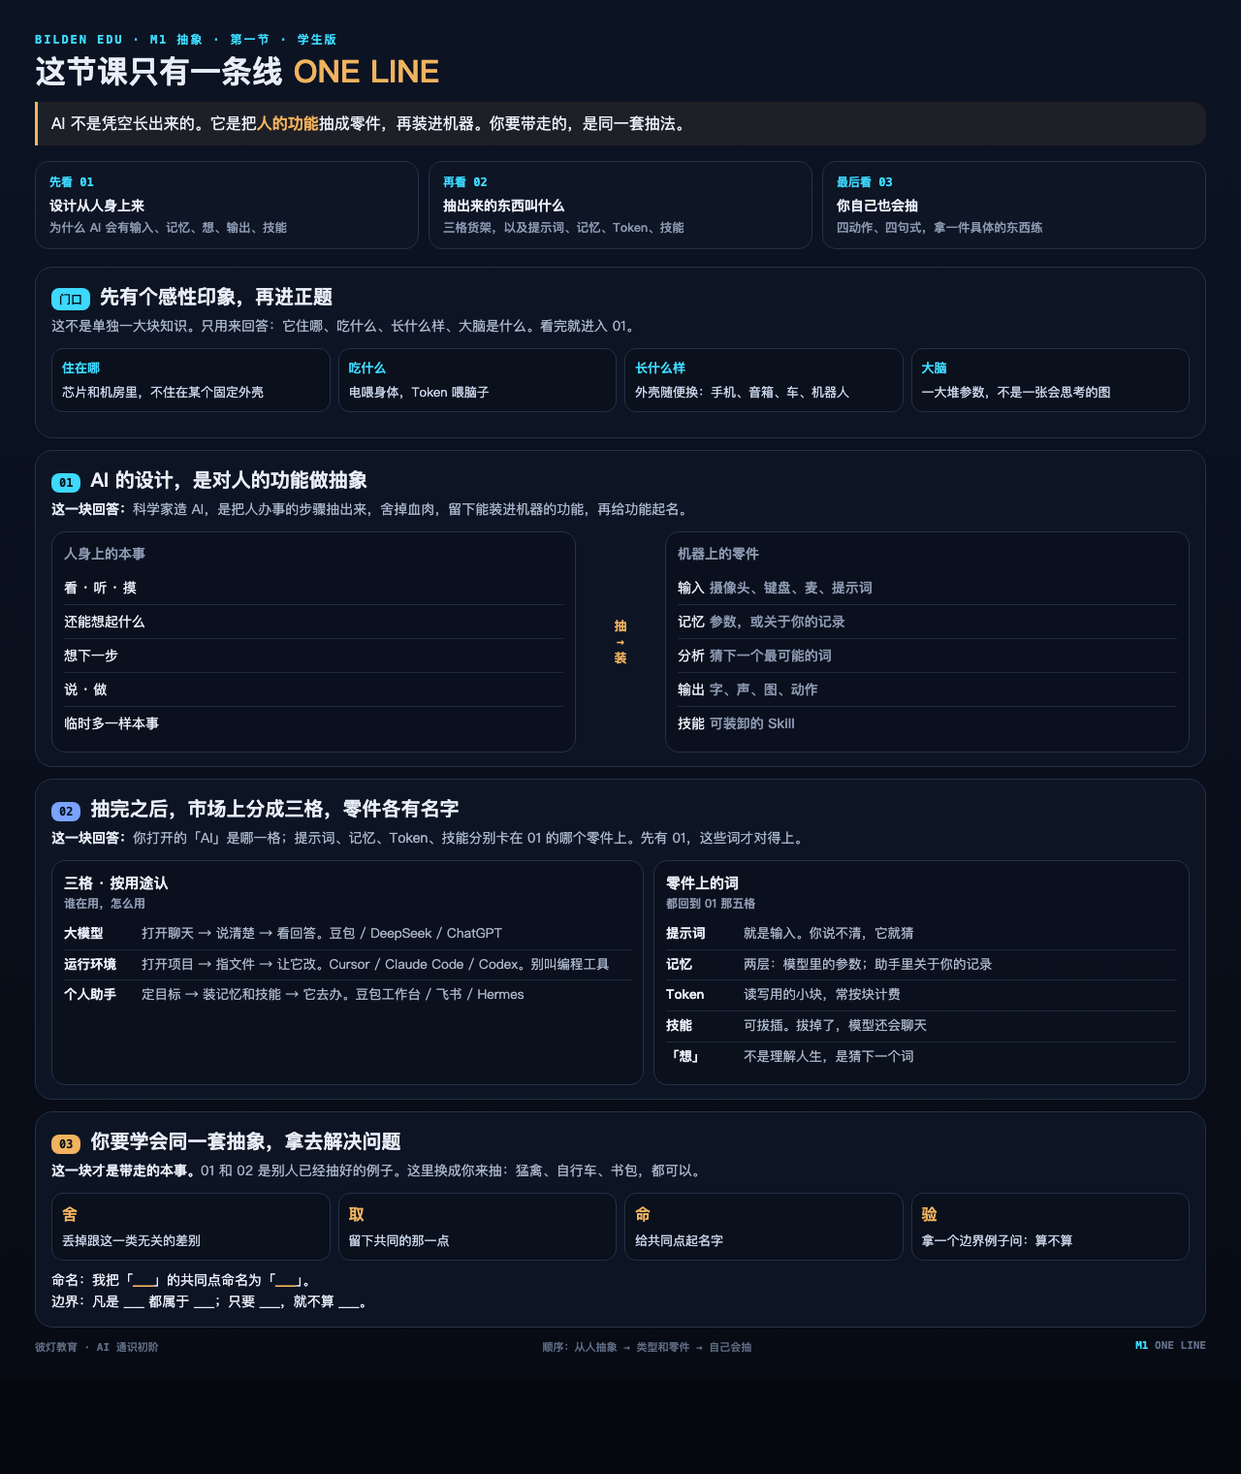
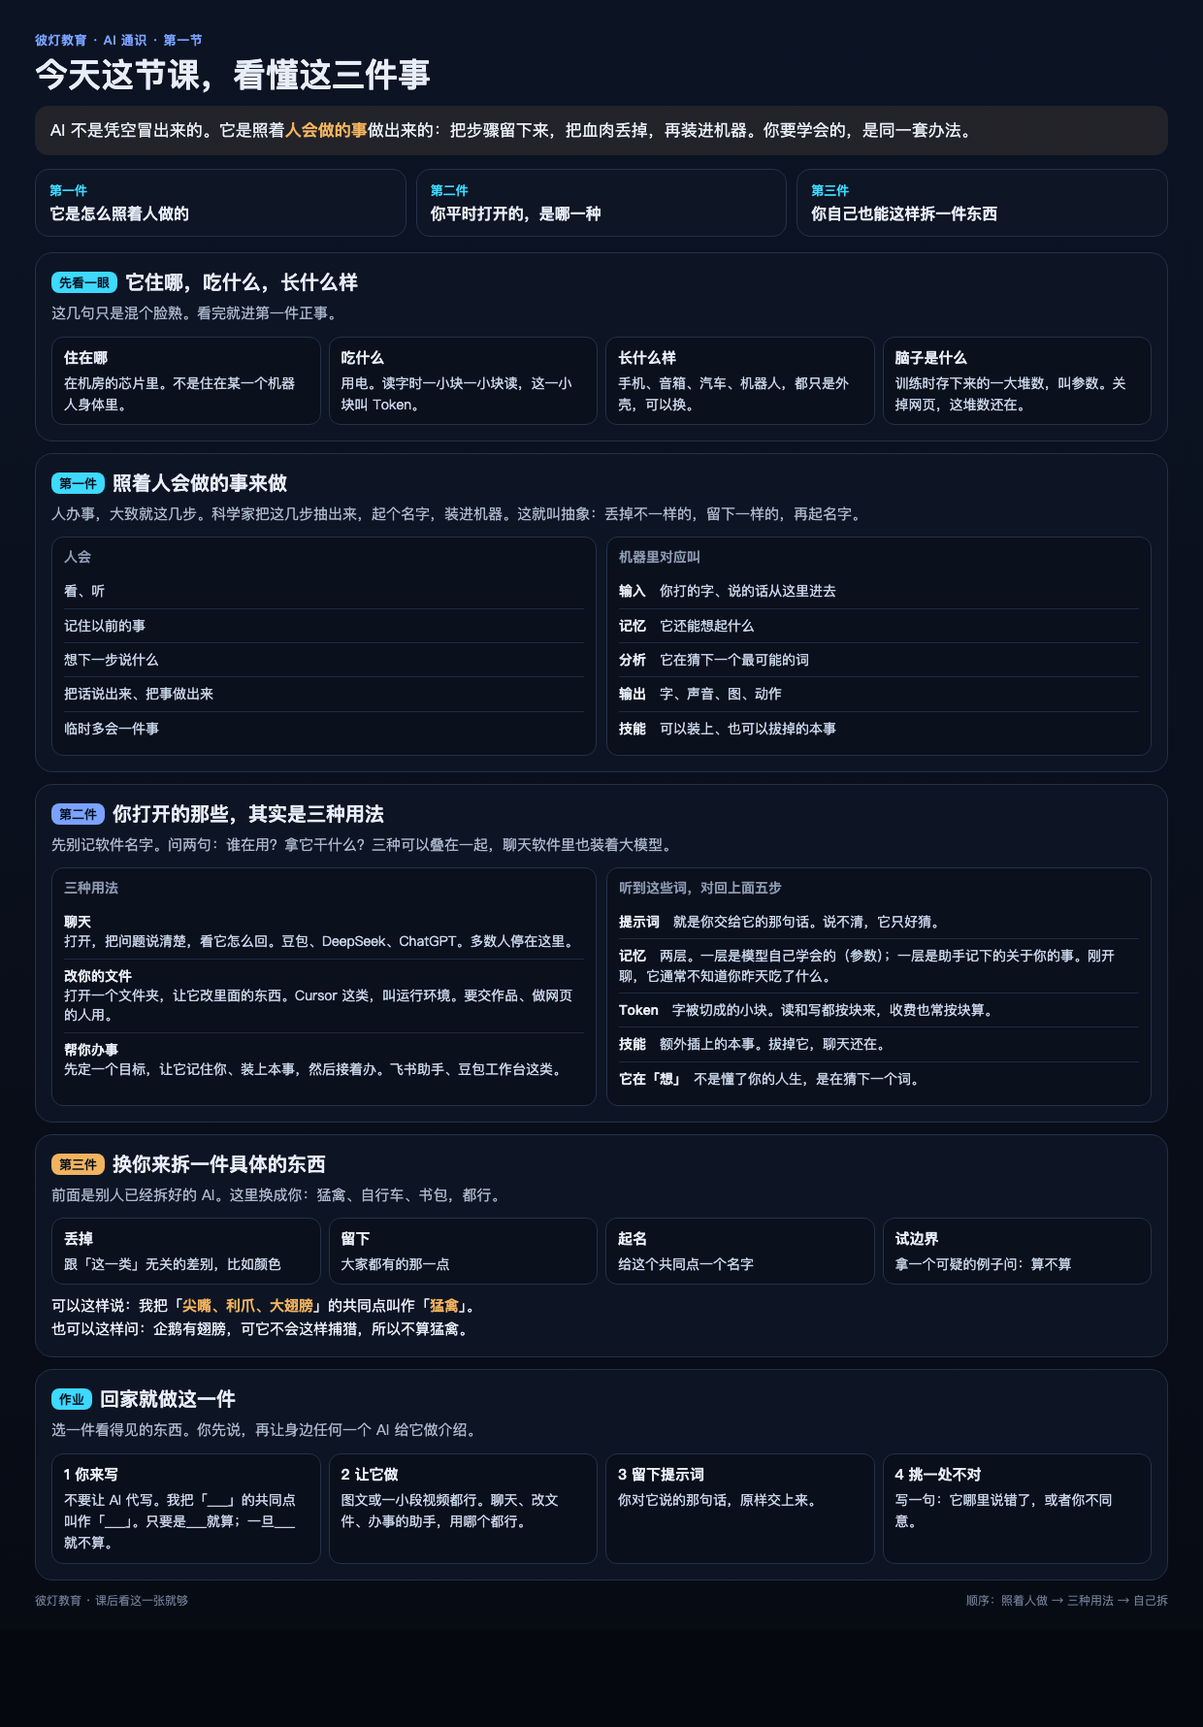
课后卡片改成口语，并加一份作业：自己用抽象句子描述一件东西，再用任意 AI 做介绍。

Changed region(s): [[0.0306, 0.0, 0.95, 0.9276], [0.7355, 0.8039, 0.9806, 0.9276]]

diff --git a/literacy/course/17-m1-lookup.html b/literacy/course/17-m1-lookup.html
@@ -2,163 +2,140 @@
 <html lang="zh-CN">
 <head>
 <meta charset="UTF-8">
-<title>M1 一条线 · 课后速查</title>
+<title>今天这节课 · 一张卡片</title>
 <style>
   *{box-sizing:border-box;margin:0;padding:0}
   html,body{background:#05080F;color:#E8EEF8;font-family:"PingFang SC","Hiragino Sans GB","Noto Sans SC",sans-serif}
-  .sheet{
-    width:1280px;margin:0 auto;padding:32px 36px 24px;
-    background:linear-gradient(180deg,#0C1424,#070B14);
-  }
-  .kick{font:800 12px ui-monospace,Menlo,monospace;letter-spacing:.16em;color:#3DD9FF}
-  h1{font-size:32px;margin-top:6px;line-height:1.2}
-  h1 em{font-style:normal;color:#F2B35E;font-weight:700}
-  .thesis{
-    margin-top:12px;font-size:16px;line-height:1.55;color:#E8EEF8;
-    border-left:3px solid #F2B35E;padding:10px 14px;background:rgba(242,179,94,.08);border-radius:0 14px 14px 0;
-  }
-  .thesis b{color:#F2B35E}
-  .path{
-    display:grid;grid-template-columns:repeat(3,1fr);gap:10px;margin:16px 0 18px;
-  }
-  .path div{
-    border:1px solid #243247;border-radius:14px;padding:12px 14px;background:rgba(14,22,38,.9);
-  }
-  .path b{display:block;font:800 12px ui-monospace,Menlo,monospace;color:#3DD9FF;margin-bottom:4px}
-  .path span{font-size:14px;font-weight:800;line-height:1.35}
-  .path small{display:block;margin-top:4px;font-size:12.5px;font-weight:500;color:#8B98B0;line-height:1.4}
-  .block{
-    border:1px solid #243247;border-radius:18px;background:rgba(14,22,38,.92);
-    padding:16px 16px 14px;margin-bottom:12px;
-  }
-  .block h2{font-size:20px;display:flex;align-items:baseline;gap:10px;margin-bottom:6px}
-  .block h2 i{
-    font:800 12px ui-monospace,Menlo,monospace;font-style:normal;color:#04101C;
-    background:#3DD9FF;border-radius:8px;padding:3px 8px;flex:none;
-  }
-  .block.b2 h2 i{background:#7AA2FF}
-  .block.b3 h2 i{background:#F2B35E}
-  .why{font-size:14px;color:#AAB6CA;line-height:1.5;margin-bottom:12px}
-  .why b{color:#E8EEF8}
-  .door{
-    display:grid;grid-template-columns:repeat(4,1fr);gap:8px;margin-bottom:12px;
-  }
-  .door div{border:1px solid #243247;border-radius:12px;padding:10px;background:rgba(0,0,0,.22)}
-  .door b{display:block;font-size:13px;color:#3DD9FF;margin-bottom:4px}
-  .door span{font-size:13px;color:#C8D4E8;line-height:1.4}
-  .map{display:grid;grid-template-columns:1fr auto 1fr;gap:10px;align-items:stretch}
-  .side{border:1px solid #243247;border-radius:14px;padding:12px;background:rgba(0,0,0,.2)}
-  .side h3{font-size:14px;margin-bottom:8px;color:#8B98B0;font-weight:700}
-  .side li{list-style:none;font-size:14px;padding:7px 0;border-bottom:1px solid #1E2A40;color:#E8EEF8}
-  .side li:last-child{border-bottom:0}
-  .side li span{color:#8B98B0;font-weight:500}
-  .mid{display:flex;align-items:center;justify-content:center;font:800 13px ui-monospace,Menlo,monospace;color:#F2B35E;writing-mode:horizontal-tb;text-align:center;min-width:72px}
-  .cols{display:grid;grid-template-columns:1.05fr .95fr;gap:10px}
-  .box{border:1px solid #243247;border-radius:14px;padding:12px;background:rgba(0,0,0,.2)}
-  .box h3{font-size:15px;margin-bottom:8px}
-  .box h3 small{display:block;font-size:12px;color:#8B98B0;font-weight:600;margin-top:2px}
-  .row{display:grid;grid-template-columns:72px 1fr;gap:8px;padding:6px 0;border-bottom:1px solid #1E2A40;font-size:13.5px;line-height:1.4}
-  .row:last-child{border-bottom:0}
-  .row b{color:#E8EEF8}
-  .row span{color:#AAB6CA}
-  .steps{display:grid;grid-template-columns:repeat(4,1fr);gap:8px}
-  .step{border:1px solid #243247;border-radius:12px;padding:10px;background:rgba(0,0,0,.2)}
-  .step b{display:block;color:#F2B35E;font-size:16px;margin-bottom:4px}
-  .step span{font-size:13px;color:#C8D4E8;line-height:1.4}
-  .sent{margin-top:10px;font-size:14px;line-height:1.55;color:#E8EEF8}
-  .sent b{color:#F2B35E}
-  footer{display:flex;justify-content:space-between;margin-top:8px;font:600 11px ui-monospace,Menlo,monospace;color:#5E6B82}
-  footer b{color:#3DD9FF}
+  .sheet{width:1240px;margin:0 auto;padding:32px 36px 22px;background:linear-gradient(180deg,#0C1424,#070B14)}
+  .kick{font-size:13px;font-weight:700;color:#7AA2FF;letter-spacing:.04em}
+  h1{font-size:34px;margin-top:6px;line-height:1.25;font-weight:800}
+  .lead{margin-top:10px;font-size:17px;line-height:1.6;color:#E8EEF8;background:rgba(242,179,94,.1);border-radius:14px;padding:12px 16px}
+  .lead b{color:#F2B35E}
+  .order{display:grid;grid-template-columns:repeat(3,1fr);gap:10px;margin:14px 0 16px}
+  .order div{border:1px solid #243247;border-radius:14px;padding:12px 14px;background:rgba(14,22,38,.9)}
+  .order b{display:block;font-size:13px;color:#3DD9FF;margin-bottom:4px}
+  .order span{font-size:16px;font-weight:800;line-height:1.35}
+  .card{border:1px solid #243247;border-radius:18px;background:rgba(14,22,38,.92);padding:16px;margin-bottom:12px}
+  .card h2{font-size:20px;font-weight:800;margin-bottom:6px}
+  .card h2 span{display:inline-block;font-size:13px;font-weight:800;color:#04101C;background:#3DD9FF;border-radius:8px;padding:2px 8px;margin-right:8px;vertical-align:2px}
+  .card.b2 h2 span{background:#7AA2FF}
+  .card.b3 h2 span{background:#F2B35E}
+  .note{font-size:15px;color:#AAB6CA;line-height:1.55;margin-bottom:12px}
+  .four{display:grid;grid-template-columns:repeat(4,1fr);gap:8px}
+  .four div,.pair .col{border:1px solid #243247;border-radius:12px;padding:10px 12px;background:rgba(0,0,0,.22)}
+  .four b{display:block;font-size:15px;margin-bottom:4px;color:#E8EEF8}
+  .four span,.pair li{font-size:14px;color:#C8D4E8;line-height:1.45}
+  .pair{display:grid;grid-template-columns:1fr 1fr;gap:10px}
+  .pair h3{font-size:14px;color:#8B98B0;font-weight:700;margin-bottom:8px}
+  .pair li{list-style:none;padding:7px 0;border-bottom:1px solid #1E2A40}
+  .pair li:last-child{border-bottom:0}
+  .pair li b{color:#E8EEF8}
+  .say{margin-top:10px;font-size:15px;line-height:1.6}
+  .say b{color:#F2B35E}
+  footer{display:flex;justify-content:space-between;margin-top:4px;font-size:12px;color:#6F7C93}
 </style>
 </head>
 <body>
 <div class="sheet">
-  <div class="kick">BILDEN EDU · M1 抽象 · 第一节 · 学生版</div>
-  <h1>这节课只有一条线 <em>ONE LINE</em></h1>
-  <p class="thesis">AI 不是凭空长出来的。它是把<b>人的功能</b>抽成零件，再装进机器。你要带走的，是同一套抽法。</p>
+  <div class="kick">彼灯教育 · AI 通识 · 第一节</div>
+  <h1>今天这节课，看懂这三件事</h1>
+  <p class="lead">AI 不是凭空冒出来的。它是照着<b>人会做的事</b>做出来的：把步骤留下来，把血肉丢掉，再装进机器。你要学会的，是同一套办法。</p>
 
-  <div class="path">
-    <div><b>先看 01</b><span>设计从人身上来</span><small>为什么 AI 会有输入、记忆、想、输出、技能</small></div>
-    <div><b>再看 02</b><span>抽出来的东西叫什么</span><small>三格货架，以及提示词、记忆、Token、技能</small></div>
-    <div><b>最后看 03</b><span>你自己也会抽</span><small>四动作、四句式，拿一件具体的东西练</small></div>
+  <div class="order">
+    <div><b>第一件</b><span>它是怎么照着人做的</span></div>
+    <div><b>第二件</b><span>你平时打开的，是哪一种</span></div>
+    <div><b>第三件</b><span>你自己也能这样拆一件东西</span></div>
   </div>
 
-  <section class="block">
-    <h2><i>门口</i>先有个感性印象，再进正题</h2>
-    <p class="why">这不是单独一大块知识。只用来回答：它住哪、吃什么、长什么样、大脑是什么。看完就进入 01。</p>
-    <div class="door">
-      <div><b>住在哪</b><span>芯片和机房里，不住在某个固定外壳</span></div>
-      <div><b>吃什么</b><span>电喂身体，Token 喂脑子</span></div>
-      <div><b>长什么样</b><span>外壳随便换：手机、音箱、车、机器人</span></div>
-      <div><b>大脑</b><span>一大堆参数，不是一张会思考的图</span></div>
+  <section class="card">
+    <h2><span>先看一眼</span>它住哪，吃什么，长什么样</h2>
+    <p class="note">这几句只是混个脸熟。看完就进第一件正事。</p>
+    <div class="four">
+      <div><b>住在哪</b><span>在机房的芯片里。不是住在某一个机器人身体里。</span></div>
+      <div><b>吃什么</b><span>用电。读字时一小块一小块读，这一小块叫 Token。</span></div>
+      <div><b>长什么样</b><span>手机、音箱、汽车、机器人，都只是外壳，可以换。</span></div>
+      <div><b>脑子是什么</b><span>训练时存下来的一大堆数，叫参数。关掉网页，这堆数还在。</span></div>
     </div>
   </section>
 
-  <section class="block">
-    <h2><i>01</i>AI 的设计，是对人的功能做抽象</h2>
-    <p class="why"><b>这一块回答：</b>科学家造 AI，是把人办事的步骤抽出来，舍掉血肉，留下能装进机器的功能，再给功能起名。</p>
-    <div class="map">
-      <div class="side">
-        <h3>人身上的本事</h3>
+  <section class="card">
+    <h2><span>第一件</span>照着人会做的事来做</h2>
+    <p class="note">人办事，大致就这几步。科学家把这几步抽出来，起个名字，装进机器。这就叫抽象：丢掉不一样的，留下一样的，再起名字。</p>
+    <div class="pair">
+      <div class="col">
+        <h3>人会</h3>
         <ul>
-          <li>看 · 听 · 摸</li>
-          <li>还能想起什么</li>
-          <li>想下一步</li>
-          <li>说 · 做</li>
-          <li>临时多一样本事</li>
+          <li>看、听</li>
+          <li>记住以前的事</li>
+          <li>想下一步说什么</li>
+          <li>把话说出来、把事做出来</li>
+          <li>临时多会一件事</li>
         </ul>
       </div>
-      <div class="mid">抽<br>→<br>装</div>
-      <div class="side">
-        <h3>机器上的零件</h3>
+      <div class="col">
+        <h3>机器里对应叫</h3>
         <ul>
-          <li>输入 <span>摄像头、键盘、麦、提示词</span></li>
-          <li>记忆 <span>参数，或关于你的记录</span></li>
-          <li>分析 <span>猜下一个最可能的词</span></li>
-          <li>输出 <span>字、声、图、动作</span></li>
-          <li>技能 <span>可装卸的 Skill</span></li>
+          <li><b>输入</b>　你打的字、说的话从这里进去</li>
+          <li><b>记忆</b>　它还能想起什么</li>
+          <li><b>分析</b>　它在猜下一个最可能的词</li>
+          <li><b>输出</b>　字、声音、图、动作</li>
+          <li><b>技能</b>　可以装上、也可以拔掉的本事</li>
         </ul>
       </div>
     </div>
   </section>
 
-  <section class="block b2">
-    <h2><i>02</i>抽完之后，市场上分成三格，零件各有名字</h2>
-    <p class="why"><b>这一块回答：</b>你打开的「AI」是哪一格；提示词、记忆、Token、技能分别卡在 01 的哪个零件上。先有 01，这些词才对得上。</p>
-    <div class="cols">
-      <div class="box">
-        <h3>三格 · 按用途认<small>谁在用，怎么用</small></h3>
-        <div class="row"><b>大模型</b><span>打开聊天 → 说清楚 → 看回答。豆包 / DeepSeek / ChatGPT</span></div>
-        <div class="row"><b>运行环境</b><span>打开项目 → 指文件 → 让它改。Cursor / Claude Code / Codex。别叫编程工具</span></div>
-        <div class="row"><b>个人助手</b><span>定目标 → 装记忆和技能 → 它去办。豆包工作台 / 飞书 / Hermes</span></div>
+  <section class="card b2">
+    <h2><span>第二件</span>你打开的那些，其实是三种用法</h2>
+    <p class="note">先别记软件名字。问两句：谁在用？拿它干什么？三种可以叠在一起，聊天软件里也装着大模型。</p>
+    <div class="pair">
+      <div class="col">
+        <h3>三种用法</h3>
+        <ul>
+          <li><b>聊天</b><br>打开，把问题说清楚，看它怎么回。豆包、DeepSeek、ChatGPT。多数人停在这里。</li>
+          <li><b>改你的文件</b><br>打开一个文件夹，让它改里面的东西。Cursor 这类，叫运行环境。要交作品、做网页的人用。</li>
+          <li><b>帮你办事</b><br>先定一个目标，让它记住你、装上本事，然后接着办。飞书助手、豆包工作台这类。</li>
+        </ul>
       </div>
-      <div class="box">
-        <h3>零件上的词<small>都回到 01 那五格</small></h3>
-        <div class="row"><b>提示词</b><span>就是输入。你说不清，它就猜</span></div>
-        <div class="row"><b>记忆</b><span>两层：模型里的参数；助手里关于你的记录</span></div>
-        <div class="row"><b>Token</b><span>读写用的小块，常按块计费</span></div>
-        <div class="row"><b>技能</b><span>可拔插。拔掉了，模型还会聊天</span></div>
-        <div class="row"><b>「想」</b><span>不是理解人生，是猜下一个词</span></div>
+      <div class="col">
+        <h3>听到这些词，对回上面五步</h3>
+        <ul>
+          <li><b>提示词</b>　就是你交给它的那句话。说不清，它只好猜。</li>
+          <li><b>记忆</b>　两层。一层是模型自己学会的（参数）；一层是助手记下的关于你的事。刚开聊，它通常不知道你昨天吃了什么。</li>
+          <li><b>Token</b>　字被切成的小块。读和写都按块来，收费也常按块算。</li>
+          <li><b>技能</b>　额外插上的本事。拔掉它，聊天还在。</li>
+          <li><b>它在「想」</b>　不是懂了你的人生，是在猜下一个词。</li>
+        </ul>
       </div>
     </div>
   </section>
 
-  <section class="block b3">
-    <h2><i>03</i>你要学会同一套抽象，拿去解决问题</h2>
-    <p class="why"><b>这一块才是带走的本事。</b>01 和 02 是别人已经抽好的例子。这里换成你来抽：猛禽、自行车、书包，都可以。</p>
-    <div class="steps">
-      <div class="step"><b>舍</b><span>丢掉跟这一类无关的差别</span></div>
-      <div class="step"><b>取</b><span>留下共同的那一点</span></div>
-      <div class="step"><b>命</b><span>给共同点起名字</span></div>
-      <div class="step"><b>验</b><span>拿一个边界例子问：算不算</span></div>
+  <section class="card b3">
+    <h2><span>第三件</span>换你来拆一件具体的东西</h2>
+    <p class="note">前面是别人已经拆好的 AI。这里换成你：猛禽、自行车、书包，都行。</p>
+    <div class="four">
+      <div><b>丢掉</b><span>跟「这一类」无关的差别，比如颜色</span></div>
+      <div><b>留下</b><span>大家都有的那一点</span></div>
+      <div><b>起名</b><span>给这个共同点一个名字</span></div>
+      <div><b>试边界</b><span>拿一个可疑的例子问：算不算</span></div>
     </div>
-    <p class="sent">命名：我把「<b>___</b>」的共同点命名为「<b>___</b>」。<br>边界：凡是 ___ 都属于 ___；只要 ___，就不算 ___。</p>
+    <p class="say">可以这样说：我把「<b>尖嘴、利爪、大翅膀</b>」的共同点叫作「<b>猛禽</b>」。<br>也可以这样问：企鹅有翅膀，可它不会这样捕猎，所以不算猛禽。</p>
+  </section>
+
+  <section class="card">
+    <h2><span>作业</span>回家就做这一件</h2>
+    <p class="note">选一件看得见的东西。你先说，再让身边任何一个 AI 给它做介绍。</p>
+    <div class="four">
+      <div><b>1 你来写</b><span>不要让 AI 代写。我把「___」的共同点叫作「___」。只要是___就算；一旦___就不算。</span></div>
+      <div><b>2 让它做</b><span>图文或一小段视频都行。聊天、改文件、办事的助手，用哪个都行。</span></div>
+      <div><b>3 留下提示词</b><span>你对它说的那句话，原样交上来。</span></div>
+      <div><b>4 挑一处不对</b><span>写一句：它哪里说错了，或者你不同意。</span></div>
+    </div>
   </section>
 
   <footer>
-    <span>彼灯教育 · AI 通识初阶</span>
-    <span>顺序：从人抽象 → 类型和零件 → 自己会抽</span>
-    <span><b>M1</b> ONE LINE</span>
+    <span>彼灯教育 · 课后看这一张就够</span>
+    <span>顺序：照着人做 → 三种用法 → 自己拆</span>
   </footer>
 </div>
 </body>

diff --git a/literacy/course/17-m1-online-hour1.html b/literacy/course/17-m1-online-hour1.html
@@ -1793,7 +1793,27 @@ h2{color:#F3F7FD}
       <li>1–2 分钟讲猛禽：零件 → 舍差异 → 命名。故意问：企鹅算猛禽吗？逼出边界句。</li>
       <li>让孩子点选自己的物体；聊天区只收命名句或边界句。</li>
       <li>收口点工具条：今天学的四句式和货架，就是以后让 AI 帮你拆世界的方向盘。</li>
-      <li>作业可口头布置：回家再拆一样家里的东西，拍图 + 一句命名句交班级表。</li>
+      <li>作业在下一页，投屏念一遍再下课。</li>
+    </ul>
+  </aside>
+</section>
+
+<!-- 26 作业 -->
+<section class="slide" data-t="作业" data-fs="下课前把作业念一遍">
+  <div><h2>回家就做这一件<span class="en">One thing to hand in</span></h2></div>
+  <p class="lead one-line">选一件看得见的东西。先用今天的句子自己说清楚，再让身边任何一个 AI 给它做一份介绍。</p>
+  <div class="hw">
+    <div class="card"><b class="n">你来写</b><h4>不要让 AI 代写这两句</h4><p>我把「___」的共同点叫作「___」。<br>只要是___，就算；一旦___，就不算。<br>比如猛禽：尖嘴、利爪、大翅膀。企鹅有翅膀，但不会这样捕猎，所以不算。</p></div>
+    <div class="card"><b class="n">让 AI 做</b><h4>一份这个东西的介绍</h4><p>图文或者一小段视频，都行。聊天、改文件、办事的助手，用哪个都行。把你对它说的那句话一起留下。</p></div>
+    <div class="card"><b class="n">交上来</b><h4>三样放在一起</h4><p>① 你写的两句话<br>② 它做出的介绍<br>③ 你用的是哪一种，外加一句：它哪里说得不对</p></div>
+  </div>
+  <div class="say">选自行车、书包、雨伞都行。关键是你先说，它后做。它做完，你要能指出一处不对。</div>
+  <aside class="notes">
+    <h4>布置</h4>
+    <ul>
+      <li>强调第一段必须手写或自己打，不能把句子交给 AI。</li>
+      <li>第二段不限工具：豆包、ChatGPT、可灵、即梦，出图或出视频都算。</li>
+      <li>收作业时先看两句话像不像今天的说法，再看成品，最后看那句质疑。</li>
     </ul>
   </aside>
 </section>

diff --git a/tools/m1-figures/deck.template.html b/tools/m1-figures/deck.template.html
@@ -1686,7 +1686,27 @@ h2{color:#F3F7FD}
       <li>1–2 分钟讲猛禽：零件 → 舍差异 → 命名。故意问：企鹅算猛禽吗？逼出边界句。</li>
       <li>让孩子点选自己的物体；聊天区只收命名句或边界句。</li>
       <li>收口点工具条：今天学的四句式和货架，就是以后让 AI 帮你拆世界的方向盘。</li>
-      <li>作业可口头布置：回家再拆一样家里的东西，拍图 + 一句命名句交班级表。</li>
+      <li>作业在下一页，投屏念一遍再下课。</li>
+    </ul>
+  </aside>
+</section>
+
+<!-- 26 作业 -->
+<section class="slide" data-t="作业" data-fs="下课前把作业念一遍">
+  <div><h2>回家就做这一件<span class="en">One thing to hand in</span></h2></div>
+  <p class="lead one-line">选一件看得见的东西。先用今天的句子自己说清楚，再让身边任何一个 AI 给它做一份介绍。</p>
+  <div class="hw">
+    <div class="card"><b class="n">你来写</b><h4>不要让 AI 代写这两句</h4><p>我把「___」的共同点叫作「___」。<br>只要是___，就算；一旦___，就不算。<br>比如猛禽：尖嘴、利爪、大翅膀。企鹅有翅膀，但不会这样捕猎，所以不算。</p></div>
+    <div class="card"><b class="n">让 AI 做</b><h4>一份这个东西的介绍</h4><p>图文或者一小段视频，都行。聊天、改文件、办事的助手，用哪个都行。把你对它说的那句话一起留下。</p></div>
+    <div class="card"><b class="n">交上来</b><h4>三样放在一起</h4><p>① 你写的两句话<br>② 它做出的介绍<br>③ 你用的是哪一种，外加一句：它哪里说得不对</p></div>
+  </div>
+  <div class="say">选自行车、书包、雨伞都行。关键是你先说，它后做。它做完，你要能指出一处不对。</div>
+  <aside class="notes">
+    <h4>布置</h4>
+    <ul>
+      <li>强调第一段必须手写或自己打，不能把句子交给 AI。</li>
+      <li>第二段不限工具：豆包、ChatGPT、可灵、即梦，出图或出视频都算。</li>
+      <li>收作业时先看两句话像不像今天的说法，再看成品，最后看那句质疑。</li>
     </ul>
   </aside>
 </section>
